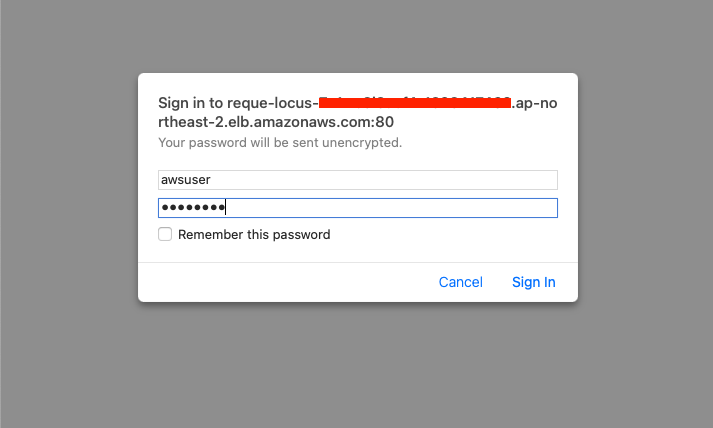
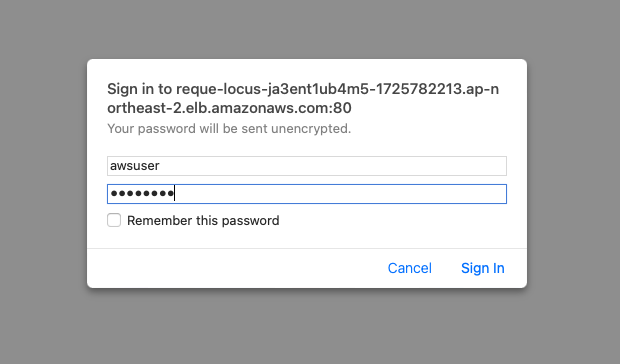
Update README.md

Changed region(s): [[0.1226, 0.1511, 0.8581, 0.8159]]

diff --git a/README.md b/README.md
@@ -16,28 +16,74 @@ This demo is based on the `ap-northeast-2`. (Seoul region)
 
 ### 0. Pre-Requisites
 - You'll need your own domain with **name-servers configurable**.
-- [AWS Account](https://aws.amazon.com/resources/create-account/) : Create an AWS account and set the [AdministratorAccess](https://docs.aws.amazon.com/ko_kr/IAM/latest/UserGuide/getting-set-up.html#create-an-admin) permission to a user in that account. The user's permissions are required to provision AWS resources such as VPCs, EKS, and ALBs required for the demo.
-- [AWS CLI](https://docs.aws.amazon.com/cli/latest/userguide/getting-started-install.html) : Install the AWS CLI, and [set up the aws credentials](https://docs.aws.amazon.com/cli/latest/userguide/cli-configure-files.html#cli-configure-files-format) on the PC where you want to perform the demo.
+- [AWS Account](https://aws.amazon.com/resources/create-account/)
+  - Create an AWS account and set the [AdministratorAccess](https://docs.aws.amazon.com/ko_kr/IAM/latest/UserGuide/getting-set-up.html#create-an-admin) permission to a user in that account. 
+  - The user's permissions are required to provision AWS resources such as VPCs, EKS, and ALBs required for the demo.
+- [AWS CLI](https://docs.aws.amazon.com/cli/latest/userguide/getting-started-install.html)
+  - Install the AWS CLI, and [set up the aws credentials](https://docs.aws.amazon.com/cli/latest/userguide/cli-configure-files.html#cli-configure-files-format) on the PC where you want to perform the demo.
 - [AWS CDK](https://docs.aws.amazon.com/cdk/v2/guide/getting_started.html#getting_started_install)
 - [docker](https://docs.docker.com/engine/install/)
+  - For a smooth demo, the lab equipment must have the Docker Daemon running.
+  - If Docker Daemon is not running, the following errors may occur
+    ```bash
+    ERROR: Cannot connect to the Docker daemon at unix:///var/run/docker.sock. Is the docker daemon running?
+    ```
 - [npm](https://nodejs.org/ko/download)
 - [kubectl](https://kubernetes.io/docs/tasks/tools/#kubectl)
 - [git](https://git-scm.com/book/en/v2/Getting-Started-Installing-Git)
 
-### 1. Clone this project and modify some code for the demo.
+### 1. Clone this project and setting environment variables for the demo.
 *1-1.* Clone that project to your local PC with the `git clone` command.
 ```bash
 git clone git@github.com:aws-samples/eks-cluster-upgrade-with-a-blue-green-strategy.git
 ```
 
-*1-2.* To utilize **your own domain** in the demo, change the domain value in the code below.
-- [public-hosted-zone-stack.ts](/aws-cdks/my-eks-blueprints/lib/public-hosted-zone-stack.ts#L9) : Modify the value of the `HostedZoneName` variable.
-- [demo-application-blue.yaml](/aws-cdks/my-eks-blueprints/lib/utils/manifests/demo-application-blue.yaml#L46) & [demo-application-green.yaml](/aws-cdks/my-eks-blueprints/lib/utils/manifests/demo-application-green.yaml#L46) : Modify the value of the `external-dns.alpha.kubernetes.io/hostname` annotation.
+<br>
 
-*1-3.* Update the dashboard access information for the network load generation tool. ([Locust](https://locust.io/))
-- [my-eks-blueprints](/aws-cdks/my-eks-blueprints/bin/my-eks-blueprints.ts#L25-L27)
-  - `allowedCidrs` : Set the range of CIDR addresses to allow access when accessing the Locust dashboard.
-  - `webUsername` & `webPassword` : Set the account information to use when logging in to the Locust dashboard.
+*1-2.* To utilize **your own domain** in the demo, define environment variables in the terminal as shown in the command below.
+```bash
+export CDK_HOSTED_ZONE_NAME=<domain>
+```
+
+Use the following command to check if the environment variable has been defined correctly.
+```bash
+echo $CDK_HOSTED_ZONE_NAME
+```
+
+<br>
+
+*1-3.* **If a public hosted zone for the domain is already configured in Route53 and you want to use that public hosted zone for demo**, define the environment variables as shown in the following command.
+```bash
+export CDK_IS_ALREADY_CREATED_HOSTED_ZONE=true
+```
+
+**If Route53 does not have a public hosted zone configured for the domain**, define an environment variable as shown in the following command to create a new public hosted zone.
+```bash
+export CDK_IS_ALREADY_CREATED_HOSTED_ZONE=false
+```
+
+Use the following command to check if the environment variable has been defined correctly.
+```bash
+echo $CDK_IS_ALREADY_CREATED_HOSTED_ZONE
+```
+
+If you don't set an environment variable, a new public hosted zone will be created by default.
+
+<br>
+
+*1-4.* **Account information to sign-in to the Request Client dashboard** is defined as an environment variable as shown below.
+```bash
+export CDK_REQUEST_CLIENT_USERNAME=<username>
+export CDK_REQUEST_CLIENT_PASSWORD=<password>
+```
+
+Use the following command to check if the environment variable has been defined correctly.
+```bash
+echo $CDK_REQUEST_CLIENT_USERNAME
+echo $CDK_REQUEST_CLIENT_PASSWORD
+```
+
+If you do not set account information separately, the username is set to `awsuser` and the password is set to `passw0rd` by default.
 
 ### 2. Setup CDK and Deploy CDK Stack
 ```bash
@@ -53,12 +99,30 @@ Through this task, provision [the architecture shown in the figure above](#demo-
 ### 3. Set up nameservers for your domain
 Once the entire CDK Stack is provisioned, refer to the Public hosted zone created on Route53 to change the domain nameserver settings.
 
+*3-1.* From the **Route 53 Console**, select **Public hosted zone**. Next, check the **Name servers** information for the selected public hosted zone.
+
+![nameserver-setting-1](statics/images/nameserver-setting-1.png)
+
+*3-2.* Next, go to the site where you purchased the domain and **update the name server information**.
+
+![nameserver-setting-2](statics/images/nameserver-setting-2.png)
+
+How to update a domain's name servers must be checked on the site where the domain was purchased.
+
 ### 4. Continuous HTTP request load for EKS clusters
-Access the dashboard of the Network Load Balancer (Locust) through a browser. The endpoint you need to connect to is the endpoint of the Application Load Balancer, which is created when provisioning the `request-client` Stack. Access the dashboard with the account information you set up in [step 1](#1-clone-this-project-and-modify-some-code-for-the-demo). Next, enter the domain you specified in `Host` and click the `Start swarming` button to start generating traffic.
+Access the dashboard of the Network Load Balancer (Locust) through a browser. The endpoint you need to connect to is the endpoint of the Application Load Balancer, which is created when provisioning the `request-client` Stack. 
+
+![request-client-output](statics/images/request-client-output.png)
+
+Access the dashboard with the account information you set up in [step 1](#1-clone-this-project-and-setting-environment-variables-for-the-demo). 
 
 ![locust-login](statics/images/locust-dashboard-insert-userinfo.png)
 
+Next, enter the domain you specified in `Host` and click the `Start swarming` button to start generating traffic.
+
 ![locust-dashboard](statics/images/locust-dashboard-init-page.png)
+
+(locust 부하 발생되는 이미지 첨부하기)
 
 ### 5. Modify weighted traffic values for EKS cluster switching
 The Route53 weighted routing feature adjusts the weight value of traffic flowing to the blue and green clusters.
@@ -71,6 +135,8 @@ As shown in the example below, you can adjust the weight values to gradually shi
 Note that the initial weighting values are set to `BLUE(100%):GREEN(0%)`.
 
 The weight value can be adjusted by modifying the value of the `external-dns.alpha.kubernetes.io/aws-weight` annotation within [demo-aplication-blue.yaml](/aws-cdks/my-eks-blueprints/lib/utils/manifests/demo-application-blue.yaml#L47) and [demo-application-green.yaml](/aws-cdks/my-eks-blueprints/lib/utils/manifests/demo-application-green.yaml#L47). The value is entered as a percentage.
+
+![external-dns-weight](statics/images/external-dns-weight.png)
 
 After modifying the weight values in the code, redeploy the CDK Stack to update the weighted routing settings for the Route53 record.
 
